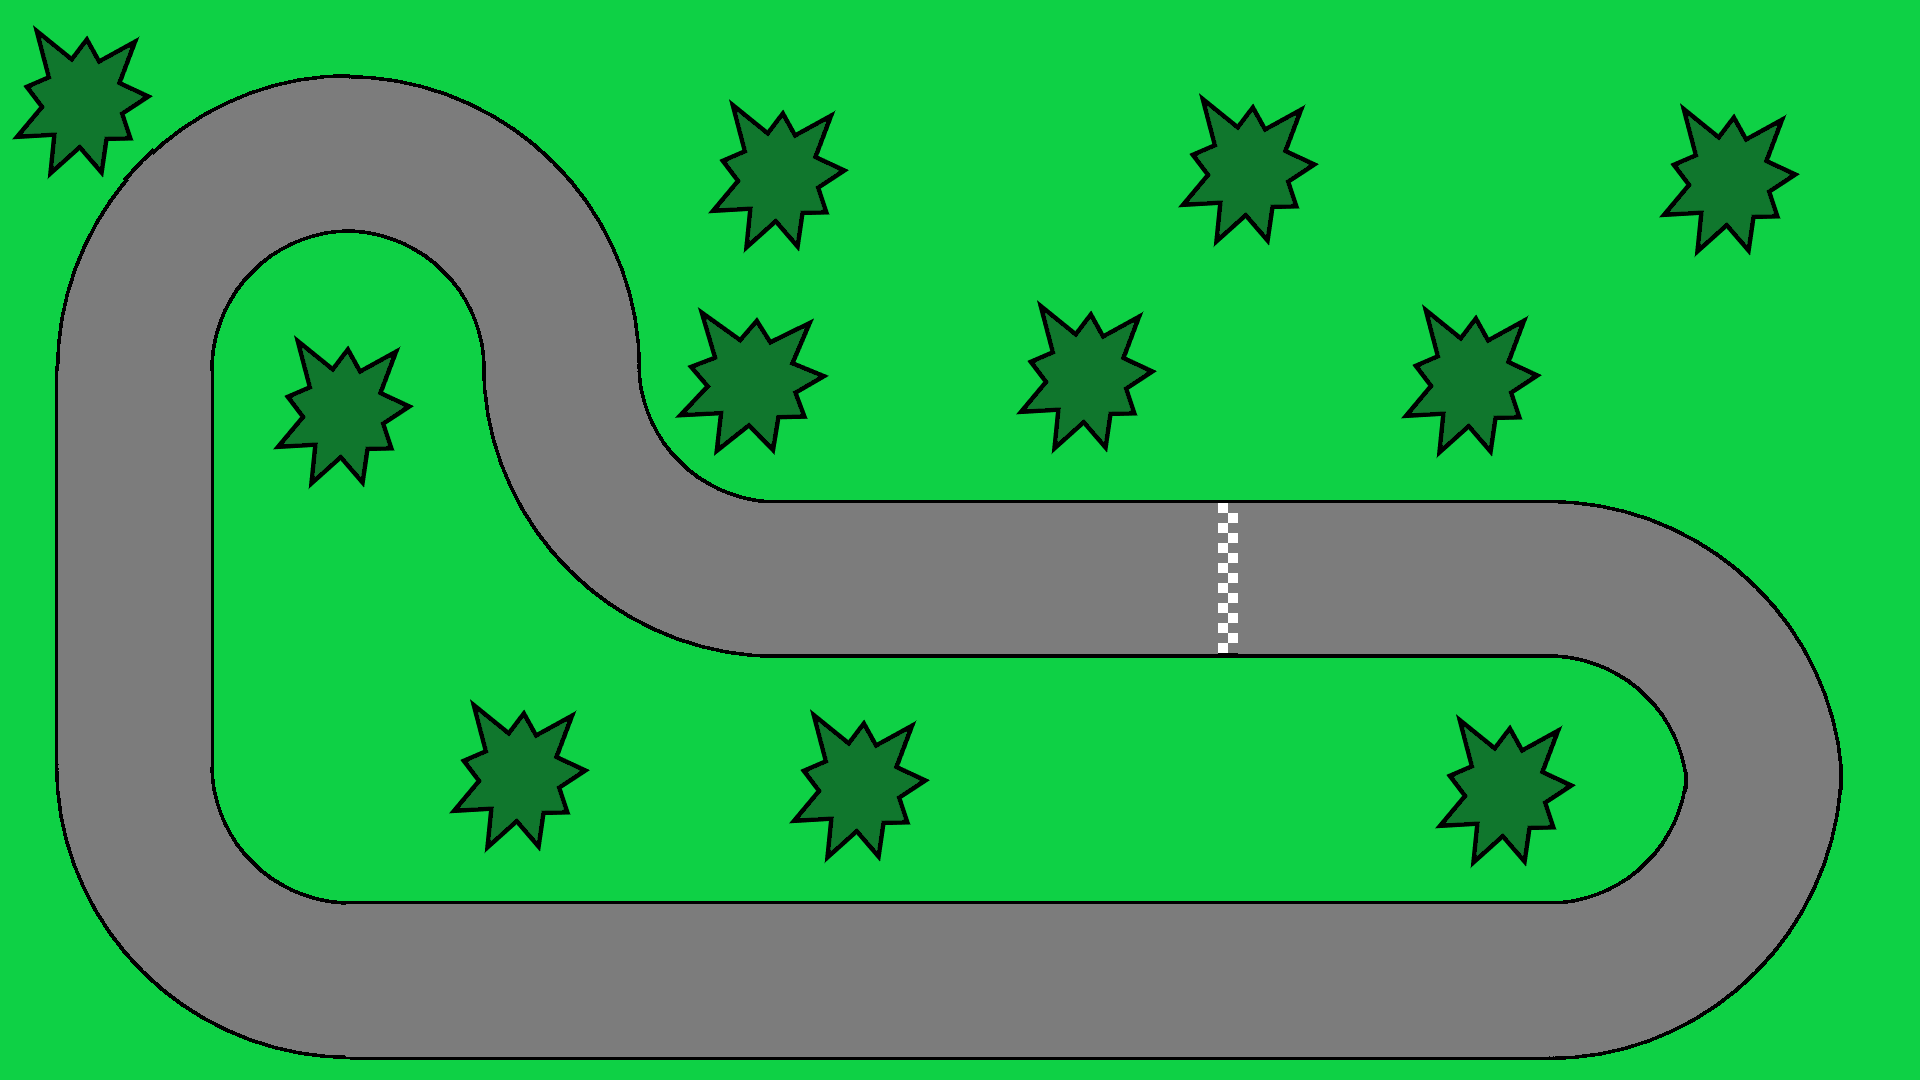
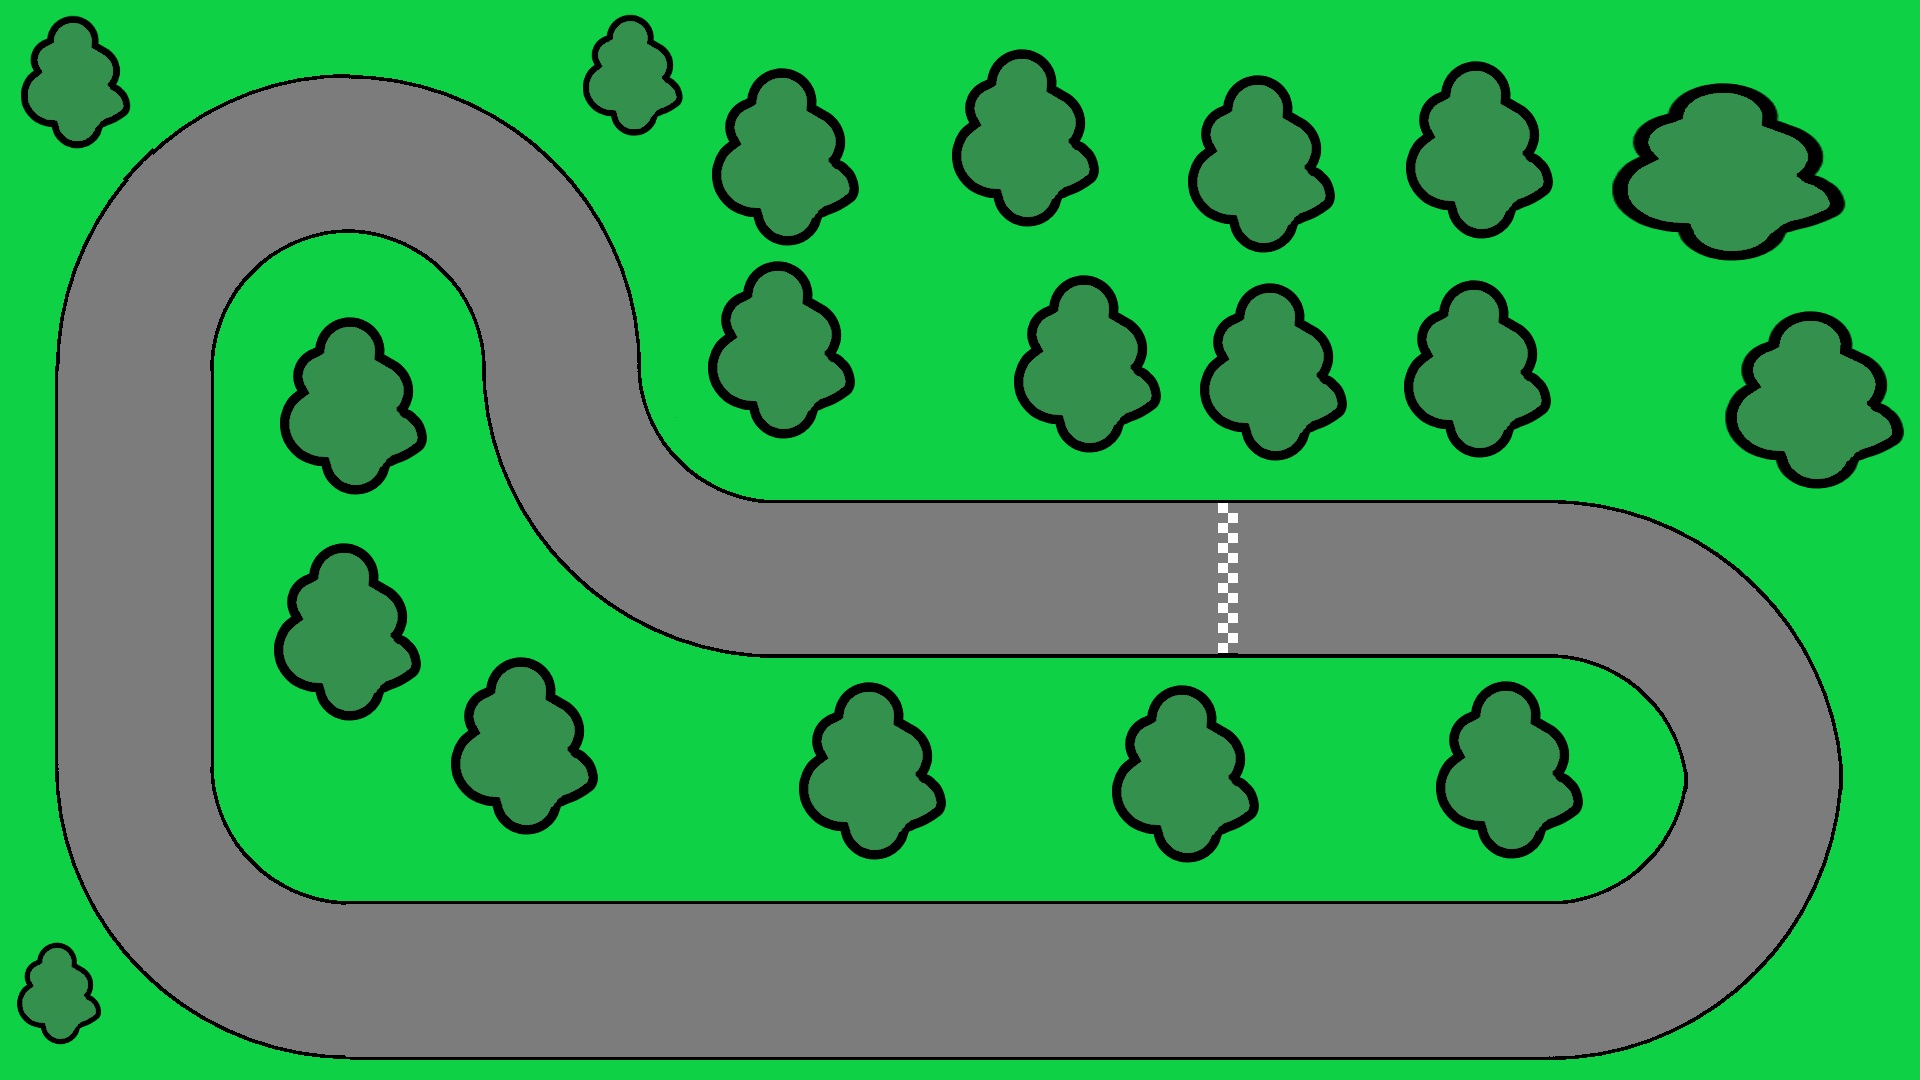
Better background-image for background

diff --git a/script.js b/script.js
@@ -15,23 +15,19 @@ window.addEventListener('keyup', (event) => {
     switch (event.key) {
         case 'ArrowLeft':
             rotation -= 10;
-            myCircle.style.left = parseInt(myCircle.style.left) - 5 + 'px';
             myCircle.style.transform = 'rotate(' + rotation + 'deg)';
             console.log(rotation + " deg");
             break;
         case 'ArrowRight':
             rotation += 10;
-            myCircle.style.left = parseInt(myCircle.style.left) + 5 + 'px';
             myCircle.style.transform = 'rotate(' + rotation + 'deg)';
             console.log(rotation + " deg");
             break;
         case 'ArrowUp':
-            myCircle.style.top = parseInt(myCircle.style.top) - 5 + 'px';
             myCircle.style.transform = 'rotate(' + rotation + 'deg)';
             console.log(rotation + " deg");
             break;
         case 'ArrowDown':
-            myCircle.style.top = parseInt(myCircle.style.top) + 5 + 'px';
             myCircle.style.transform = 'rotate(' + rotation + 'deg)';
             console.log(rotation + " deg");
             break;
